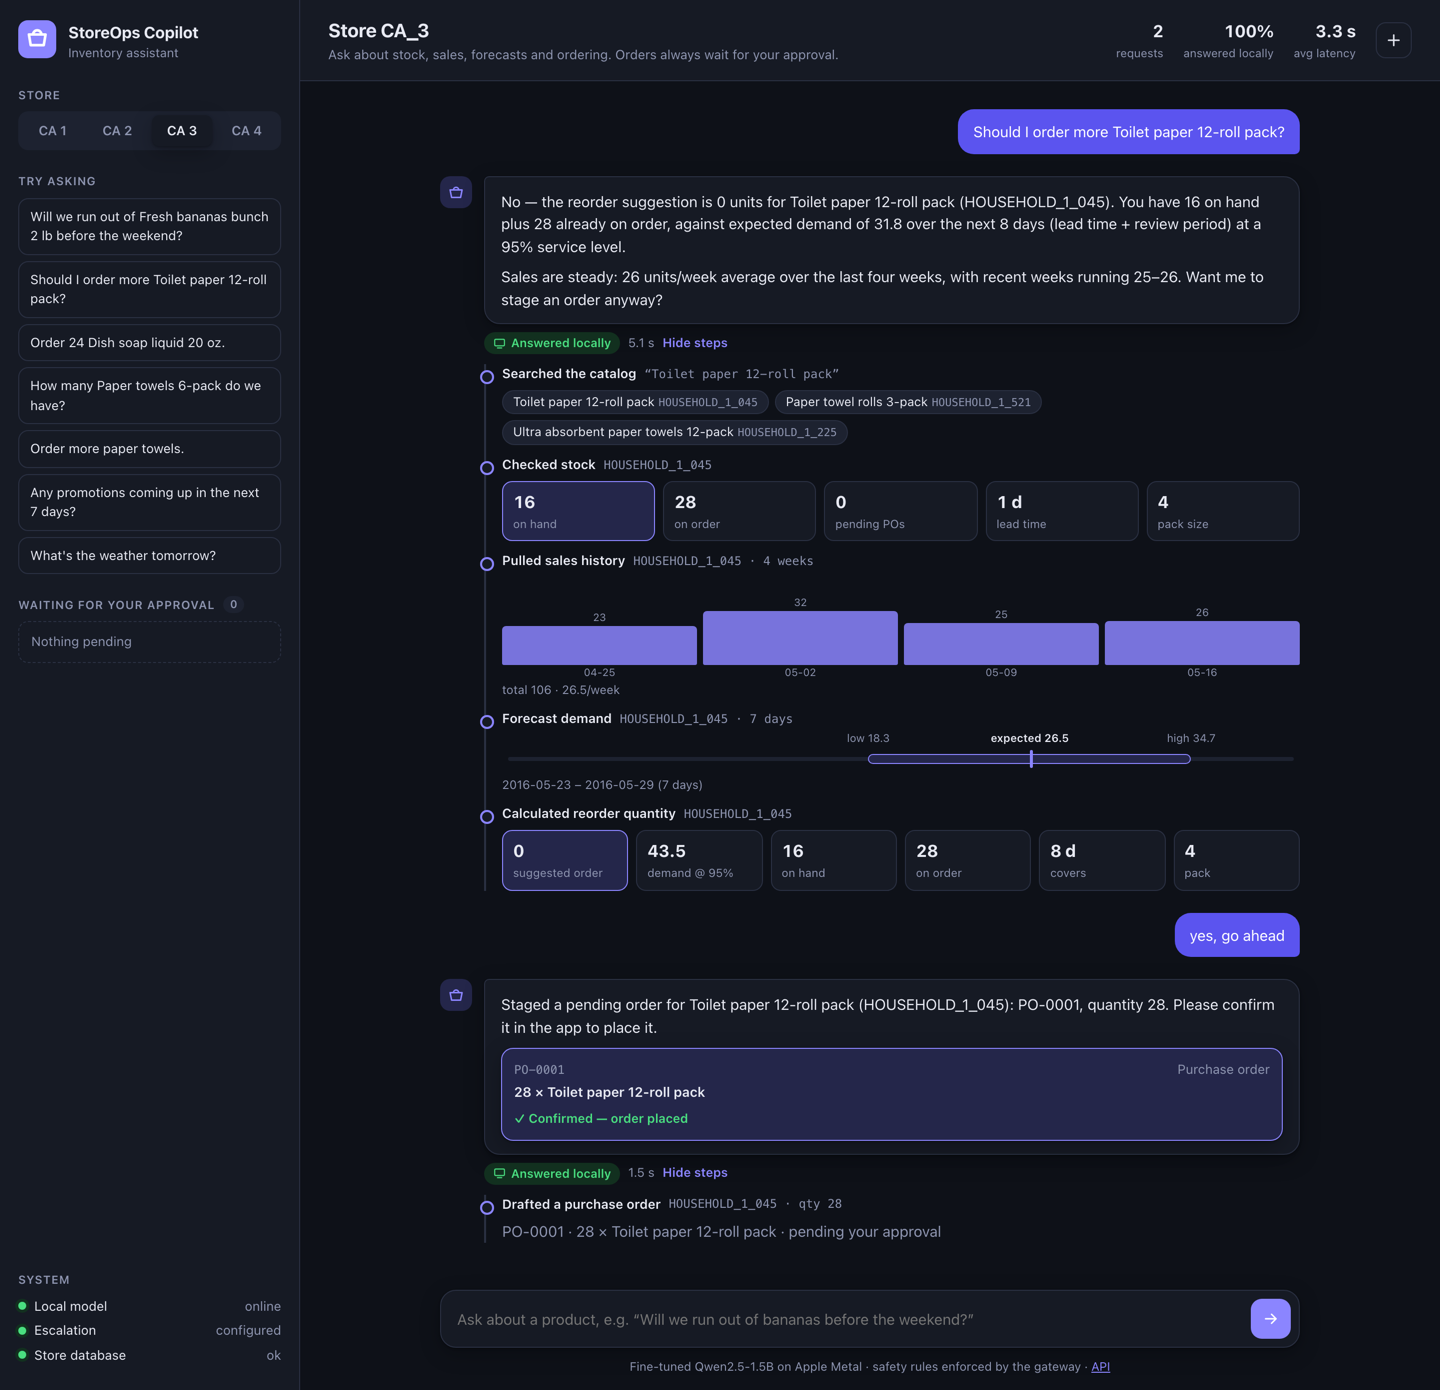
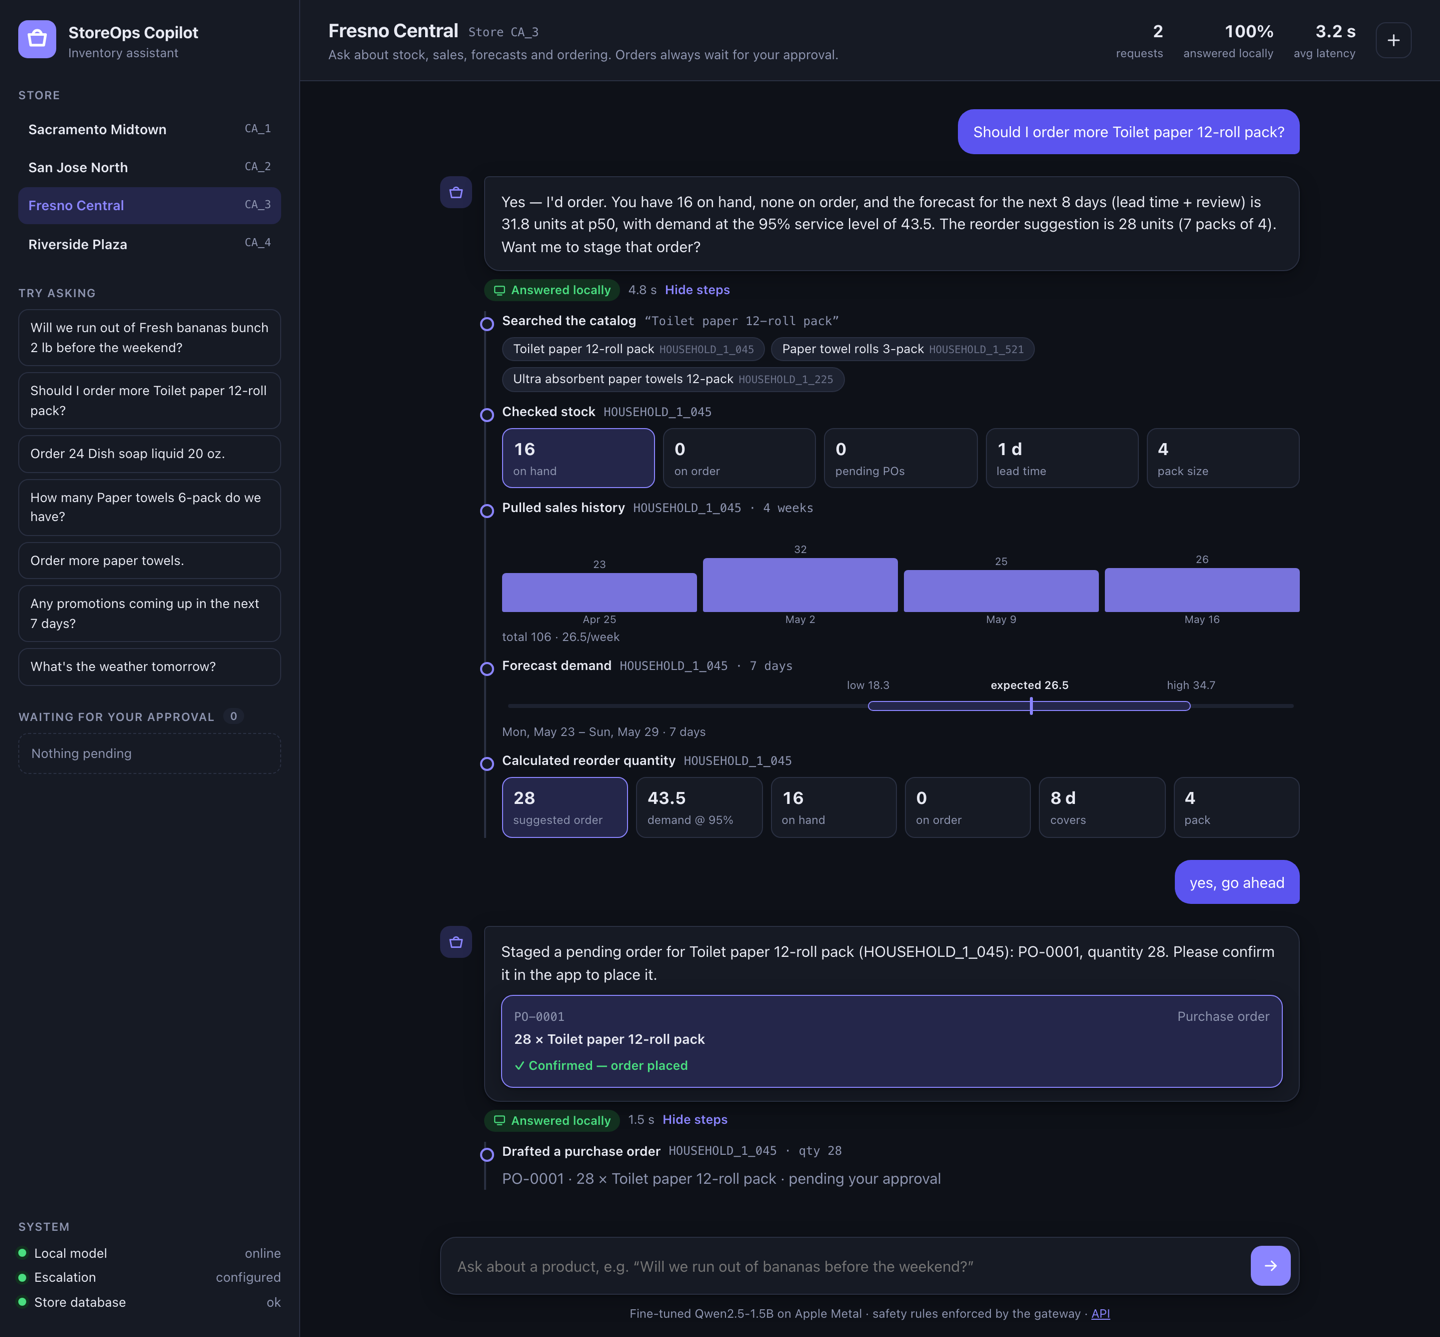
README demo GIF and refreshed screenshots
37 s demo recorded headlessly (scripts/record_demo.py): a run-out
question answered locally with its tool trace, 'yes, go ahead' staging a
purchase order the manager confirms, a sales question escalated to the
large model, and an out-of-scope question declined.

diff --git a/scripts/record_demo.py b/scripts/record_demo.py
@@ -1,0 +1,76 @@
+"""Record the README demo: drives the web UI in headless Chromium and saves a GIF.
+
+uv run --with playwright --with imageio-ffmpeg python scripts/record_demo.py
+(needs `make up`, and the escalation endpoint reachable for step 4)
+"""
+
+from __future__ import annotations
+
+import subprocess
+import sys
+import tempfile
+from pathlib import Path
+
+import imageio_ffmpeg
+from playwright.sync_api import sync_playwright
+
+URL = "http://localhost:8000"
+OUT = Path("docs/demo.gif")
+W, H = 1280, 800
+
+
+def ask(page, text: str, n: int) -> None:
+    page.click("#input")
+    page.keyboard.type(text, delay=35)
+    page.wait_for_timeout(300)
+    page.keyboard.press("Enter")
+    page.wait_for_function(
+        f"document.querySelectorAll('.msg:not(.user) .meta').length >= {n}", timeout=180000
+    )
+    page.wait_for_timeout(1400)
+
+
+def main() -> None:
+    tmp = Path(tempfile.mkdtemp())
+    with sync_playwright() as p:
+        browser = p.chromium.launch()
+        ctx = browser.new_context(viewport={"width": W, "height": H}, color_scheme="light",
+                                  record_video_dir=str(tmp), record_video_size={"width": W, "height": H})  # fmt: skip
+        page = ctx.new_page()
+        page.goto(URL)
+        page.wait_for_timeout(2000)
+
+        ask(page, "Will we run out of Fresh bananas bunch 2 lb before the weekend?", 1)
+        page.click(".toggle")  # "Show how": stock, forecast range, reorder math
+        page.wait_for_timeout(700)
+        page.evaluate("document.getElementById('thread').scrollBy({top: 420, behavior: 'smooth'})")
+        page.wait_for_timeout(2600)
+
+        ask(page, "yes, go ahead", 2)
+        page.wait_for_timeout(800)
+        page.click(".card.inline button[data-act=confirm]")
+        page.wait_for_timeout(2200)
+
+        ask(page, "How did Rolled oats 24 oz sell over the last 4 weeks?", 3)  # escalates
+        page.wait_for_timeout(1200)
+
+        ask(page, "What's the weather tomorrow?", 4)
+        page.wait_for_timeout(2000)
+        video = page.video.path()
+        ctx.close()
+        browser.close()
+
+    ffmpeg = imageio_ffmpeg.get_ffmpeg_exe()
+    palette = tmp / "palette.png"
+    vf = "fps=10,scale=960:-1:flags=lanczos"  # ~6.7 MB for a 37 s demo
+    subprocess.run([ffmpeg, "-y", "-i", video, "-vf", f"{vf},palettegen=max_colors=128:stats_mode=diff", str(palette)],
+                   check=True, capture_output=True)  # fmt: skip
+    subprocess.run([ffmpeg, "-y", "-i", video, "-i", str(palette), "-lavfi",
+                    f"{vf}[x];[x][1:v]paletteuse=dither=none:diff_mode=rectangle", str(OUT)],
+                   check=True, capture_output=True)  # fmt: skip
+    print(f"{OUT} {OUT.stat().st_size / 1e6:.1f} MB")
+    sys.exit(0)
+
+
+if __name__ == "__main__":
+    main()

diff --git a/README.md b/README.md
@@ -11,12 +11,13 @@ can't handle reliably to a large API model.
 > the demand forecast, computes a reorder quantity in code, and offers to stage a purchase order
 > that the manager has to confirm.
 
-<p align="center"><img src="docs/screens/chat_light.png" width="900" alt="StoreOps Copilot: a run-out question answered from stock and forecast tools, a one-click follow-up that stages a purchase order for approval, and a clarifying question for a vague request"></p>
+<p align="center"><img src="docs/demo.gif" width="900" alt="Demo: a run-out question answered locally from stock and forecast tools, 'yes, go ahead' staging a purchase order that the manager confirms, a sales question escalated to the large model, and an out-of-scope question declined"></p>
 
 Every answer shows **how** it was reached (catalog search, stock, sales chart, forecast range,
 reorder math), whether it ran **locally or was escalated**, and any order it drafted, which waits
-for the manager's **Confirm**. [Dark mode](docs/screens/chat_dark.png) ·
-[welcome screen](docs/screens/welcome_light.png).
+for the manager's **Confirm**. Screenshots: [conversation](docs/screens/chat_light.png) ·
+[dark mode](docs/screens/chat_dark.png) · [welcome screen](docs/screens/welcome_light.png).
+Store names in the UI are fictional labels for the M5 dataset's anonymized California stores.
 
 ## Results
 
